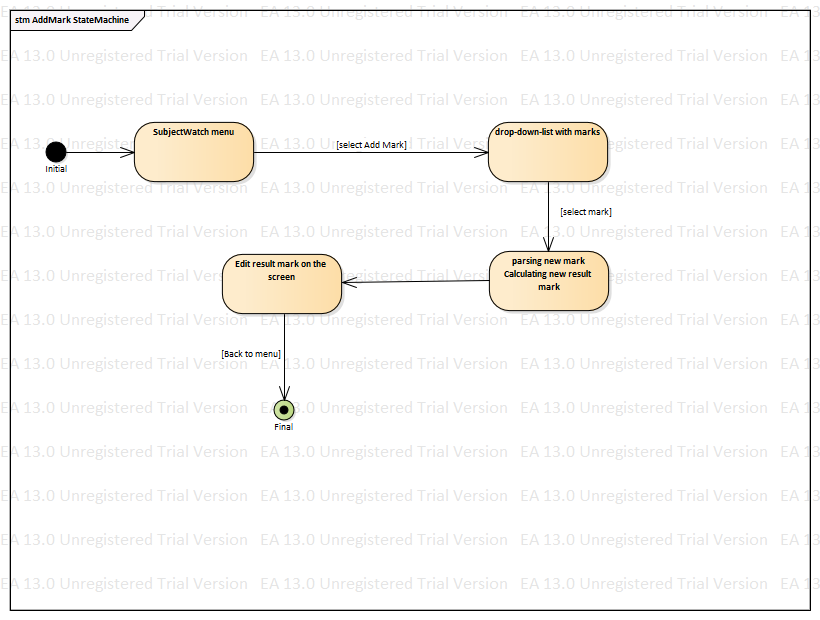
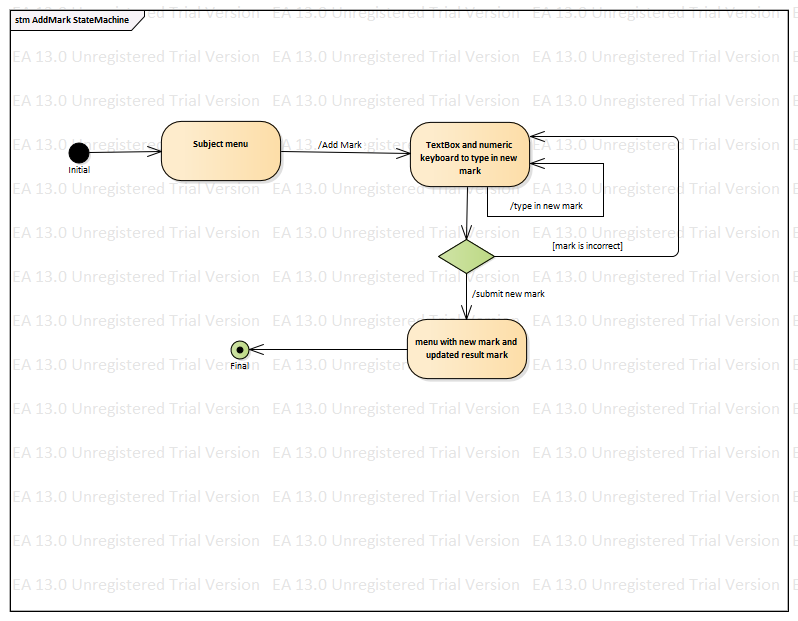
Add mockups. Change some diagrams.

diff --git a/app/src/main/java/com/jackveromeev/ejournal/MainActivity.java b/app/src/main/java/com/jackveromeev/ejournal/MainActivity.java
@@ -6,6 +6,9 @@ import android.view.View;
 import android.widget.Button;
 import android.widget.TextView;
 
+/**
+ *
+ */
 public class MainActivity extends AppCompatActivity {
 
     @Override
